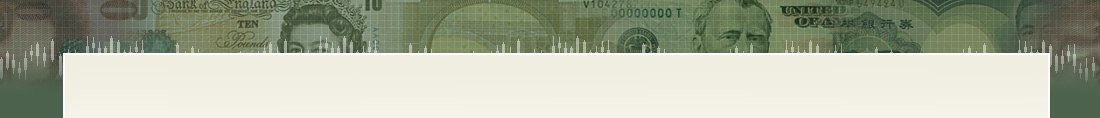
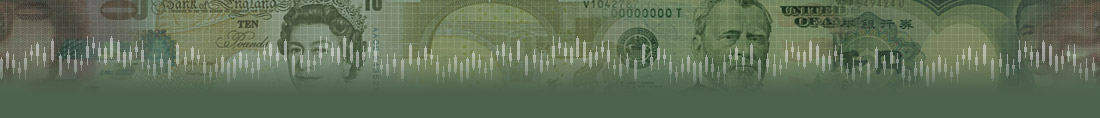
layout fixes

diff --git a/public/stylesheets/style.css b/public/stylesheets/style.css
@@ -4,8 +4,8 @@
 }
 
 body{
-	background: #4d624d;
-        /*background: #4d624d url('../images/header_bg.jpg') repeat-x 0 0 ;*/
+	/*background: #4d624d;*/
+        background: #4d624d url('/images/header_bg.jpg') repeat-x 0 0 ;
 	font-family: verdana, tahoma, sans-serif;
 	color:#000000;
 	margin:0px;
@@ -79,7 +79,7 @@ h4 a:hover {color:#666666; text-decoration: none;}
 #header{
 	width: 1100px;
 	height: 118px;
-	background: url('../images/header_bg.jpg') #4d624d;
+	/*background: url('../images/header_bg.jpg') #4d624d;*/
 	overflow: hidden;
 	}
 
@@ -287,9 +287,10 @@ ul.menu li a:hover{
 .links_path a:hover {text-decoration: none;}
 
 div.hr {
-  	height: 1px;
+  	height: 2px !important;
+        overflow:hidden;
   	width: 100%;
-  	background-color: #edebe0;
+  	/*background-color: #edebe0;*/
 	border-bottom: 1px solid #edebe0;
 }
 
@@ -1610,4 +1611,14 @@ padding:2px 10px 3px;
 }
 
 .text_decoration_none {text-decoration: none !important;}
-span.current {background:#F0EEE1; color:#815646}
+span.current {background:url('/images/list_bg.gif') no-repeat; color:#815646;
+    display:inline-block;
+    display:-moz-inline-box; -moz-box-orient:vertical;
+    height:20px;
+    text-align:center;
+    width:18px;
+    overflow:hidden;}
+    * html span.current { display:inline; margin-bottom:-8px; }  /* for IE 6 */
+    * + html span.current { display:inline; margin-bottom:-8px; }  /* for IE 7 */
+    span.current  > * { display:table; table-layout:fixed; width:18px; overflow:hidden; }
+

diff --git a/app/controllers/therms_controller.rb b/app/controllers/therms_controller.rb
@@ -1,7 +1,7 @@
 class ThermsController < ApplicationController
   def index
 
-    per_page = 50
+    per_page = 5
     
     alphabet=%w(А Б В Г Д Е Ё Ж З И Й К Л М Н О П Р С Т У Ф Х Ц Ч Ш Щ Э Ю Я A B C D E F G H I J K L M N O P Q R S T U V W X Y Z)
       l,k,p="",0,1;
